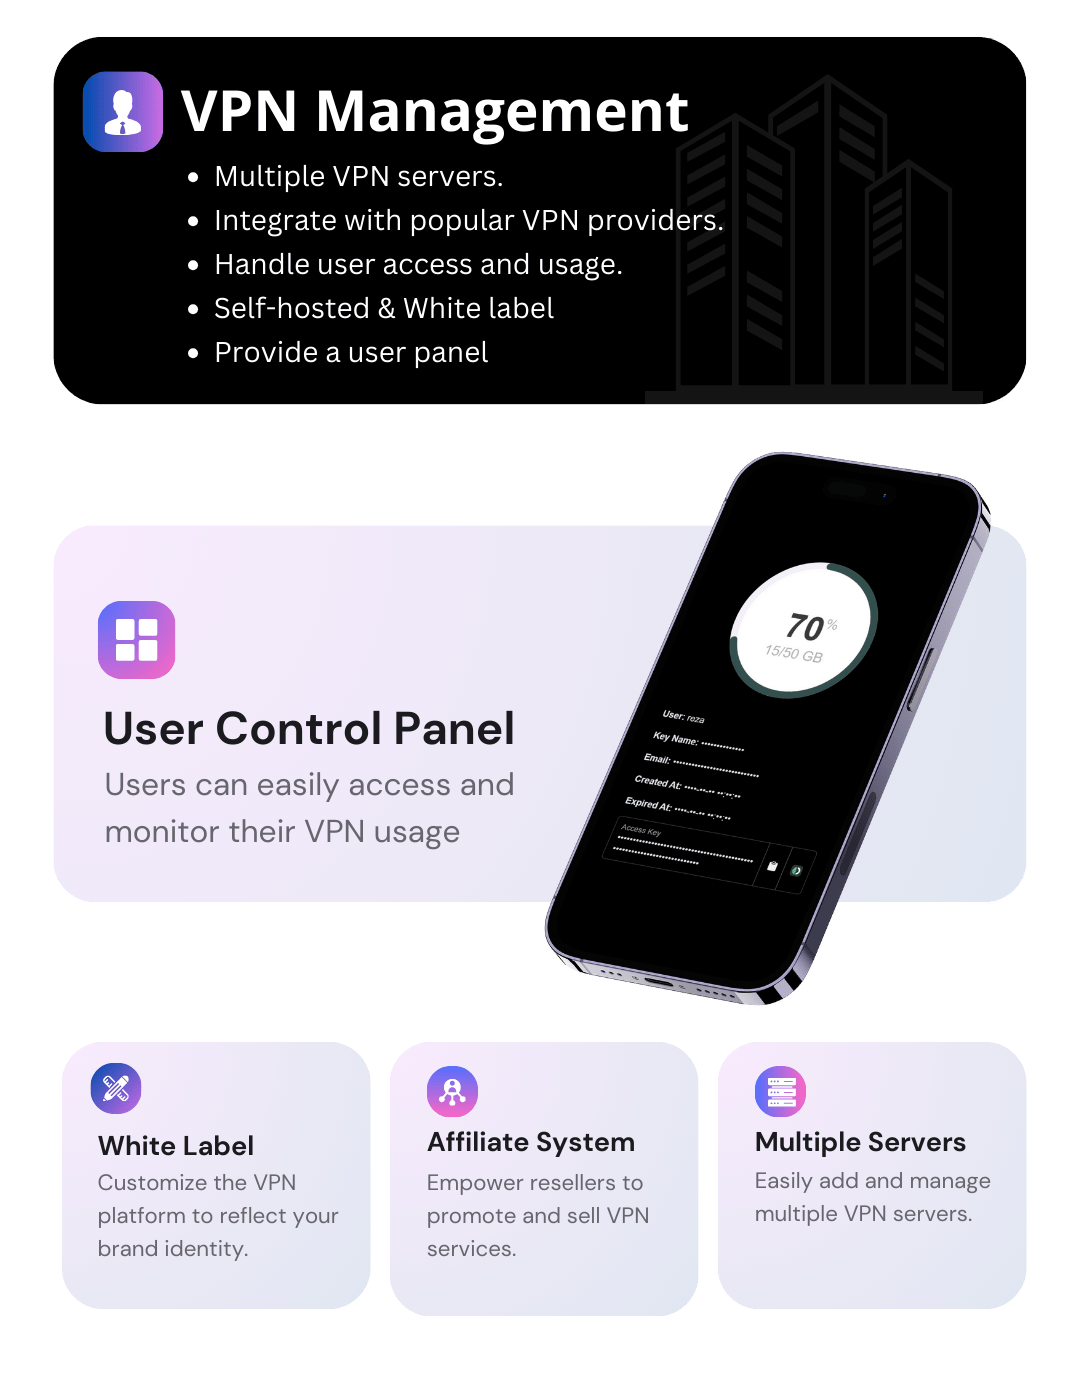
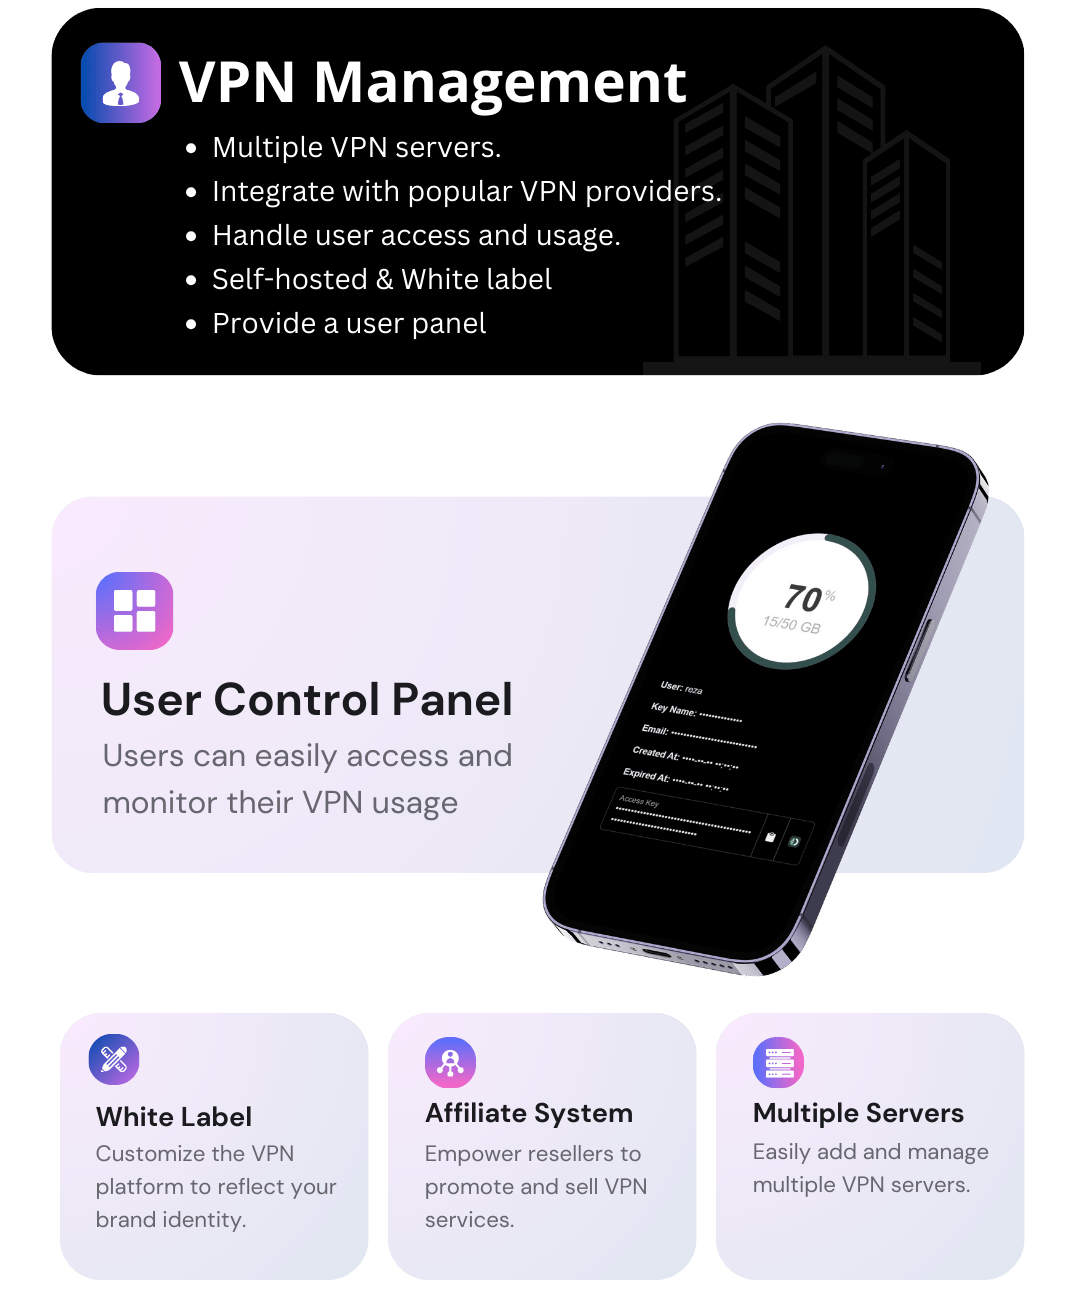
update

diff --git a/index.html b/index.html
@@ -1,5 +1,7 @@
-<img src="https://raw.githubusercontent.com/rezaplus/panguards_Codecanyon_desc/main/1.png">
-<img src="https://raw.githubusercontent.com/rezaplus/panguards_Codecanyon_desc/main/2.png">
-<img src="https://raw.githubusercontent.com/rezaplus/panguards_Codecanyon_desc/main/3.png">
-<img src="https://raw.githubusercontent.com/rezaplus/panguards_Codecanyon_desc/main/4.png">
-<img src="https://raw.githubusercontent.com/rezaplus/panguards_Codecanyon_desc/main/5.png">
+<div style="text-align:center;">
+    <img src="https://raw.githubusercontent.com/rezaplus/panguards_Codecanyon_desc/main/1.png" alt="panguards_images_1" style="width:100%; height:auto;">
+    <img src="https://raw.githubusercontent.com/rezaplus/panguards_Codecanyon_desc/main/2.png" alt="panguards_images_2" style="width:100%; height:auto;">
+    <img src="https://raw.githubusercontent.com/rezaplus/panguards_Codecanyon_desc/main/3.png" alt="panguards_images_3" style="width:100%; height:auto;">
+    <img src="https://raw.githubusercontent.com/rezaplus/panguards_Codecanyon_desc/main/4.png" alt="panguards_images_4" style="width:100%; height:auto;">
+    <img src="https://raw.githubusercontent.com/rezaplus/panguards_Codecanyon_desc/main/5.png" alt="panguards_images_5" style="width:100%; height:auto;">
+</div>
